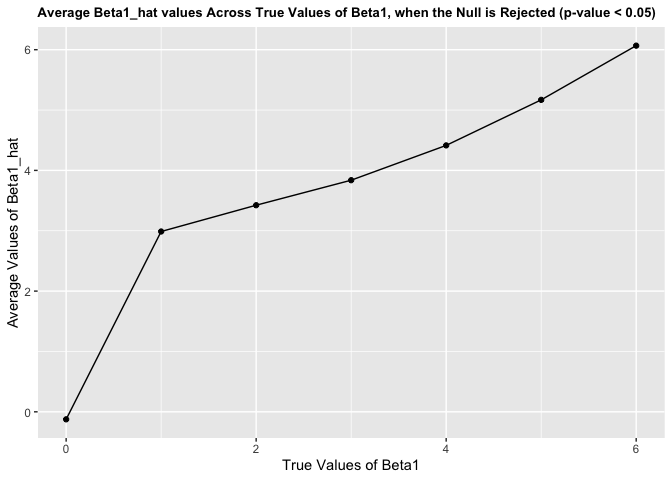
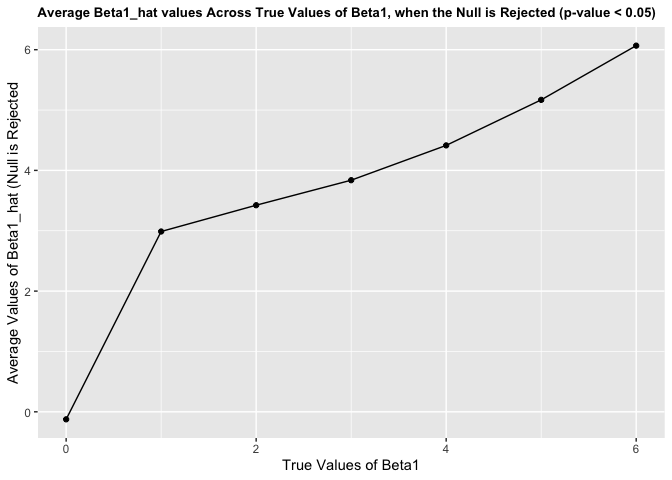
Fixed/added text in multiple places to be more visually appealing. Added explanation for problem 3. fixed title of plot 2.

Changed region(s): [[0.0, 0.1562, 0.0312, 0.8125]]

diff --git a/p8105_hw5_amh2325.md b/p8105_hw5_amh2325.md
@@ -116,17 +116,17 @@ ggplot(treatment_study_data, aes(x = week, y = result, group = subject_id,
     ## NULL
 
 Overall, the subejcts in the control group experienced results
-(observations) of lower values each week (for all weight weeks) compared
-to subjects in the experimental group. Thus, if the result was, for
+(observations) of lower values each week (for all 8 weeks) compared to
+subjects in the experimental group. Thus, if the result was, for
 example, improved eyesight, it would appear that the treatment would
 have worked better for participants receiving treatment in the
 experimental group.
 
 ## PROBLEM 3
 
-Set the following design elements: \* Fix n=30 \* Fix xi1 as draws from
-a standard Normal distribution \* Fix β0=2 \* Fix σ2=50 \* Set β1=0.
-Generate 10000 datasets from the model
+Set the following design elements: 1) Fix n=30 <br> 2) Fix xi1 as draws
+from a standard Normal distribution <br> 3) Fix β0=2 <br> 4) Fix σ2=50
+<br> 5) Set β1=0. Generate 10000 datasets from the model <br>
 
 ``` r
 set.seed(1)
@@ -187,10 +187,16 @@ sim_results %>%
     ## This warning is displayed once per session.
 
 ![](p8105_hw5_amh2325_files/figure-gfm/unnamed-chunk-8-1.png)<!-- -->
-\#\# Describe the association between effect size and power.
+**Describe the association between effect size and power.** We can see
+above that as the effect size increases, power also increases.
 
-We can see above that as the effect size increases, power also
-increases.
+1)  Make 1st plot showing the average estimate of β̂ 1 on the y axis and
+    the true value of β1 on the x axis. <br>
+2)  Make 2nd second plot the average estimate of β̂ 1 only in samples
+    for which the null was rejected on the y axis and the true value of
+    β1 on the x axis
+
+<!-- end list -->
 
 ``` r
 plot1 = sim_results %>% 
@@ -217,9 +223,21 @@ plot2 = sim_results %>%
   
   labs(title = "Average Beta1_hat values Across True Values of Beta1, when the Null is Rejected (p-value < 0.05)", 
            x = "True Values of Beta1",
-           y = "Average Values of Beta1_hat") +
+           y = "Average Values of Beta1_hat (Null is Rejected") +
   theme(plot.title = element_text(size = 10, face = "bold"))
 plot2
 ```
 
 ![](p8105_hw5_amh2325_files/figure-gfm/unnamed-chunk-9-2.png)<!-- -->
+
+**Is the sample average of β̂ 1 across tests for which the null is
+rejected approximately equal to the true value of β1? Why or why not?**
+
+One can see above that the sample average of β̂1 across tests for which
+the null is rejected is NOT approximately equal to the true value of β1.
+The average values of β̂1 are overall higher for the true value of β1
+when the null is rejected compared to the total sample (rejected and
+failed to reject), where the sample average of β̂1 across tests IS
+approximately equal to the true value of β1. However, when comparing the
+plots, they are similar when the true value of β1 = 0 and when the true
+value of β1 approaches 6.
